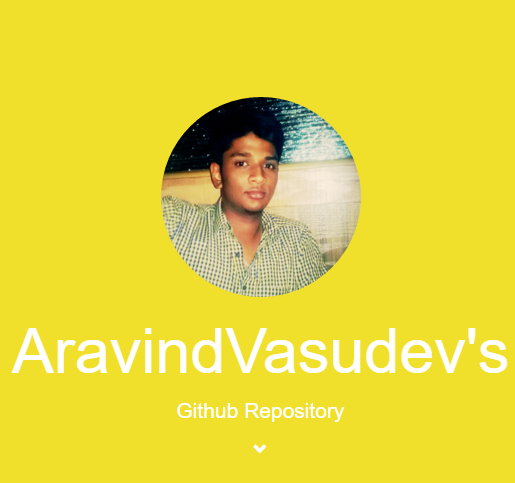
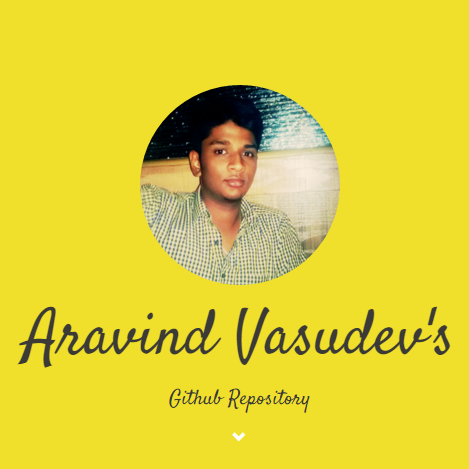
Updated CSS

diff --git a/index.html b/index.html
@@ -8,25 +8,15 @@
     <meta name="author" content="Aravind Vasudev">
     <meta name="keywords" content="Aravind Vasudev, Github, Repo">
     <meta name="description" content="AravindVasudev's Github Repo Front Page">   
-	<link rel="icon" href="content/images/favicon.gif" type="image/gif" sizes="64x64">
+	<link rel="icon" href="content/images/favicon.png" type="image/png" sizes="64x64">
 		 
 	<link rel="stylesheet" href="http://maxcdn.bootstrapcdn.com/bootstrap/3.3.6/css/bootstrap.min.css">
 	<script src="https://ajax.googleapis.com/ajax/libs/jquery/1.12.0/jquery.min.js"></script>
 	<script src="http://maxcdn.bootstrapcdn.com/bootstrap/3.3.6/js/bootstrap.min.js"></script>
-	<link href='https://fonts.googleapis.com/css?family=Oswald|Raleway' rel='stylesheet' type='text/css'>
+	<link href='https://fonts.googleapis.com/css?family=Covered+By+Your+Grace|Satisfy|Coming+Soon' rel='stylesheet' type='text/css'>
 	<link rel="stylesheet" href="content/style/style.css">
 	
-	<script>
-		$(function(){
-			$(".thumnail").hover(function(){
-				alert("works!");
-			},
-			function(){
-				
-			});
-			
-		});
-	</script>
+
 </head>
 
 <body id="myPage" data-spy="scroll" data-target=".navbar">
@@ -38,7 +28,7 @@
 		<span class="icon-bar"></span>
 		<span class="icon-bar"></span> 
 	  </button>
-	  <a class="navbar-brand" href="#">AravindVasudev's</a>
+	  <a class="navbar-brand" href="#">Aravind Vasudev's</a>
 	</div>
 	<div class="collapse navbar-collapse" id="myNavbar">
 	  <ul class="nav navbar-nav navbar-right">
@@ -53,7 +43,7 @@
 	<div class="jumbotron" id = "home">
 		<div class="container text-center">
    			<img src="content/images/me.jpg" alt="My Photo" height="200px" width="200px" class="img-circle">
-    		<h1>AravindVasudev's</h1>
+    		<h1>Aravind Vasudev's</h1>
    			<p>Github Repository</p>
 			<a href="#projects" style = "color:#fff"><span class="glyphicon glyphicon-chevron-down"></span></a>
   		</div>
@@ -97,12 +87,12 @@
 	<div id="about" class="container-fluid text-center about">
 		<h2>About Me</h2><br><br>
 		
-		<p>My Name's Aravind Vasudevan. I'm from India, doing my Bachelor's degree in Computer Science &amp; Engineering and passionate about Web Designing.</p>
+		<p>My Name's Aravind Vasudevan. I'm from India, doing my Bachelor's degree in Computer Science &amp; Engineering and passionate about Web Designing.</p><br><br>
 		<div class = "social">
 			<h4>Follow Me on</h4>
 				<a href="https://www.facebook.com/aravind8896" target="_blank"><img src="content/images/fb.png" alt="Facebook Link"></a>&nbsp;&nbsp;&nbsp;&nbsp;
-				<a href="#" target="_blank"><img src="content/images/twitter.png" alt="Twitter Link"></a>&nbsp;&nbsp;&nbsp;&nbsp;
-				<a href="#" target="_blank"><img src="content/images/youtube.png" alt="Youtube Link"></a>&nbsp;&nbsp;&nbsp;&nbsp;
+				<a href="https://twitter.com/aravind8896" target="_blank"><img src="content/images/twitter.png" alt="Twitter Link"></a>&nbsp;&nbsp;&nbsp;&nbsp;
+				<a href="https://www.youtube.com/channel/UCmvCGBHPtfdWrZEK6jQceWA" target="_blank"><img src="content/images/youtube.png" alt="Youtube Link"></a>&nbsp;&nbsp;&nbsp;&nbsp;
 		</div>
 		<br><br>
 		<a href="#home"><span class="glyphicon glyphicon-chevron-up" style= "color:#ffffff"></span></a>

diff --git a/content/style/style.css b/content/style/style.css
@@ -1,7 +1,8 @@
 body,footer {
 	color: #ffffff;
-	background-color: #191919;
+	background-color: #0C0C0C;
 	height: 100%;
+	font-family: 'Coming Soon', cursive;
 }
 /*
 .container-fluid {
@@ -33,6 +34,8 @@ body,footer {
 
 .navbar li a, .navbar .navbar-brand {
     color: #fff !important;
+	font-family: 'Covered By Your Grace', cursive;
+	font-weight:bold;
 }
 
 .navbar-nav li a:hover, .navbar-nav li.active a {
@@ -96,8 +99,22 @@ h4.pline:hover {
     padding: 0 0 15px 0;
     border: none;
     border-radius: 0;
+
 }
 
 .thumbnail img {
     margin-bottom: 10px;
+	
+}
+
+#home h1, #home p {
+	font-family: 'Satisfy', cursive;
+}
+
+h2 {
+	font-family: 'Covered By Your Grace', cursive;
+	font-weight: bold;
+}
+#about p {
+	color: #ffffff;
 }
